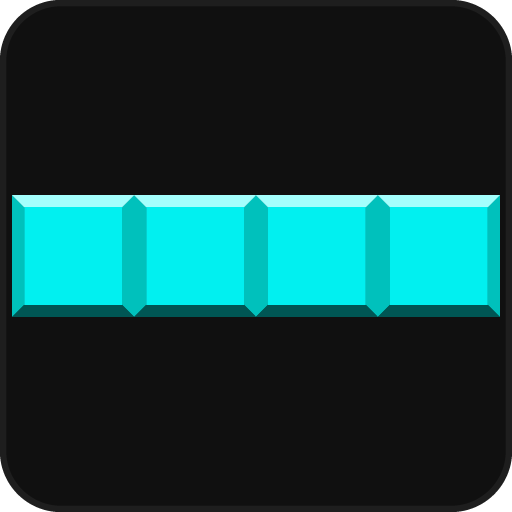
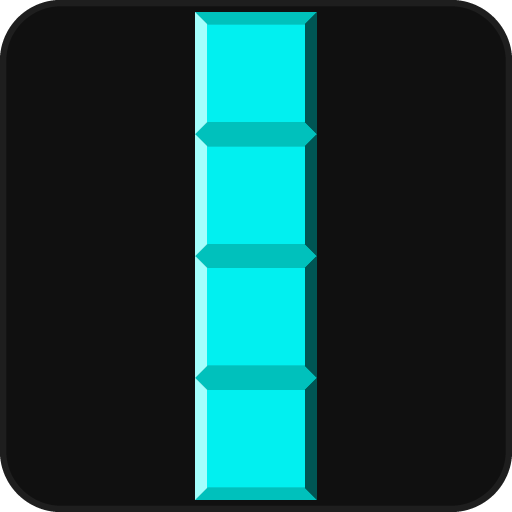
4 x 4 tetrogrid ja tile.png:t toiminee

diff --git a/15_Lopputyo/Tetris/View/MainWindow.xaml.cs b/15_Lopputyo/Tetris/View/MainWindow.xaml.cs
@@ -37,7 +37,8 @@ namespace Tetris
         private readonly ImageSource[] blockImages = new ImageSource[]
         {
             new BitmapImage(new Uri("Assets/Block-Empty.png", UriKind.Relative)),
-            new BitmapImage(new Uri("Assets/Block-I.png", UriKind.Relative)),
+            new BitmapImage(new Uri("Assets/TileCyan.png", UriKind.Relative)),
+            //new BitmapImage(new Uri("Assets/Block-I.png", UriKind.Relative)),
             new BitmapImage(new Uri("Assets/Block-J.png", UriKind.Relative)),
             new BitmapImage(new Uri("Assets/Block-L.png", UriKind.Relative)),
             new BitmapImage(new Uri("Assets/Block-O.png", UriKind.Relative)),
@@ -75,8 +76,7 @@ namespace Tetris
                     Image image = new Image();
 
                     // oletuslähde tyhjän ruudun kuvalle
-                    image.Source = tileImages[0];
-                    //image.Source = blockImages[1];
+                    image.Source = tileImages[0];                    
 
                     // Image-kontrollin positio ja koko
                     image.Width = 25;
@@ -119,27 +119,30 @@ namespace Tetris
         }
 
         private void DrawBlock(Tetromino block)
-        {
+        {         
             int[,] shape = block.GetShape();
             Point position = block.GetPosition();
 
             // putsaa taustan ennen palikan piirtoa
             GameCanvas.Children.Clear();
 
-            for (int y = 0; y < shape.GetLength(0); y++) 
+            for (int y = 0; y < shape.GetLength(0); y++)
+            //for (int y = 0; y < 4; y++) // 4 x 4 = fixed size
             {
                 for (int x = 0; x < shape.GetLength(1); x++)
+                //for (int x = 0; x < 4; x++)
                 {
                     // onko ruutu varattu?
                     if (shape[y, x] != 0)
                     {
                         // luo kuva-kontrollin ? tetrominolle
                         Image blockImage = new Image();
-                        //blockImage.Source = blockImages[shape[y, x]];
-                        blockImage.Source = blockImages[3];
+                        blockImage.Source = blockImages[shape[y, x]];                       
 
-                        blockImage.Width = 80;
-                        blockImage.Height = 80;
+                        blockImage.Width = 25;
+                        blockImage.Height = 25;
+
+                        //blockImage.RenderTransform(Rotation.Rotate90);
 
                         double left = (position.X + x) * blockSize;
                         double top = (position.Y + y) * blockSize;

diff --git a/15_Lopputyo/Tetris/Model/GameState.cs b/15_Lopputyo/Tetris/Model/GameState.cs
@@ -16,18 +16,36 @@ namespace Tetris.Model
             // alustaa ruudukon
             Grid = new Grid();
 
-            //currentTetromino = new Tetromino(new int[,]
+            currentTetromino = new Tetromino(new int[,] // I-tetron alkupositio
+            {
+                { 0, 0, 0, 0 },
+                { 1, 1, 1, 1 },
+                { 0, 0, 0, 0 },
+                { 0, 0, 0, 0 }
+            });
+
+            //currentTetromino = new Tetromino(new int[,] // L-tetron alkupositio
             //{
-            //    { 1 },
-            //    { 1 },
-            //    { 1 },
-            //    { 1 }
+            //    { 0, 0, 1, 0 },
+            //    { 1, 1, 1, 0 },
+            //    { 0, 0, 0, 0 },
+            //    { 0, 0, 0, 0 }
             //});
 
-            //currentTetromino = new Tetromino(new int[,]
+            //currentTetromino = new Tetromino(new int[,] // S-tetron alkupositio
             //{
-            //    { 0, 0, 1 },
-            //    { 1, 1, 1 },
+            //    { 0, 0, 0, 0 },
+            //    { 0, 1, 1, 0 },
+            //    { 1, 1, 0, 0 },
+            //    { 0, 0, 0, 0 }
+            //});
+
+            //currentTetromino = new Tetromino(new int[,] // J-tetron alkupositio
+            //{
+            //    { 0, 0, 0, 0 },
+            //    { 1, 0, 0, 0 },
+            //    { 1, 1, 1, 0 },
+            //    { 0, 0, 0, 0 }
             //});
         }
 

diff --git a/15_Lopputyo/Tetris/Model/Tetromino.cs b/15_Lopputyo/Tetris/Model/Tetromino.cs
@@ -54,6 +54,14 @@ namespace Tetris.Model
             // massan keskipiste
             double totalX = blocks.Sum(block => block.X);
             double totalY = blocks.Sum(block => block.Y);
+
+            //double totalX = 0;
+            //double totalY = 0;
+            foreach (var block in blocks) 
+            {
+                totalX += block.X;
+                totalY += block.Y;
+            }
             double centerX = totalX / blocks.Count;
             double centerY = totalY / blocks.Count;
 
@@ -83,7 +91,7 @@ namespace Tetris.Model
             }
 
             shape = rotatedShape;
-            InitializeBlocks();
+            //InitializeBlocks();
         }
         public void RotateCounterClockwise()
         {            
